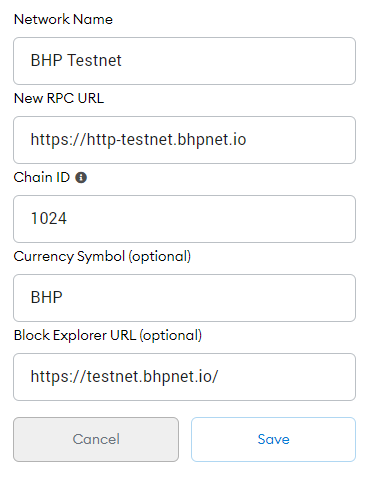
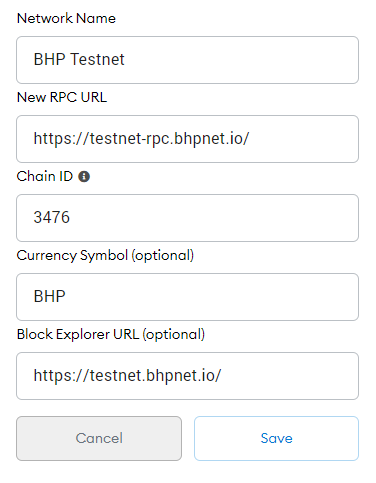
modify chain-id

diff --git a/.umirc.ts b/.umirc.ts
@@ -23,12 +23,20 @@ export default defineConfig({
         title: 'GitHub',
         path: 'https://github.com/bhpnet/go-bhp',
       },
+      {
+        title: 'Website',
+        path: 'https://bhpnet.io',
+      },
     ],
     'zh-CN': [
       null, // null 值代表保留约定式生成的导航，只做增量配置
       {
         title: 'GitHub',
         path: 'https://github.com/bhpnet/go-bhp',
+      },
+      {
+        title: '官网',
+        path: 'https://bhpnet.io',
       },
     ],
   },

diff --git a/docs/developer/cli/dumpgenesis.md b/docs/developer/cli/dumpgenesis.md
@@ -18,5 +18,5 @@ OPTIONS
 
 ```shell
 > gbhp dumpgenesis --datadir node
[2 lines of base64/hex data omitted]
 ```

diff --git a/docs/developer/cli/dumpgenesis.zh-CN.md b/docs/developer/cli/dumpgenesis.zh-CN.md
@@ -18,5 +18,5 @@ OPTIONS
 
 ```shell
 > gbhp dumpgenesis --datadir node
[2 lines of base64/hex data omitted]
 ```

diff --git a/docs/developer/truffle.md b/docs/developer/truffle.md
@@ -86,7 +86,7 @@ module.exports = {
     testnet: {
       provider: () =>
         new HDWalletProvider(mnemonic, `https://http-mainnet.bhpnet.io`),
-      network_id: 31415,
+      network_id: 6794,
       confirmations: 10,
       timeoutBlocks: 200,
       skipDryRun: true,
@@ -94,7 +94,7 @@ module.exports = {
     bhp: {
       provider: () =>
         new HDWalletProvider(mnemonic, `https://http-testnet.bhpnet.io`),
-      network_id: 1024,
+      network_id: 3476,
       confirmations: 10,
       timeoutBlocks: 200,
       skipDryRun: true,
@@ -148,7 +148,7 @@ Compiling your contracts...
 Starting migrations...
 ======================
 > Network name:    'testnet'
-> Network id:      999
+> Network id:      3476
 > Block gas limit: 8000000 (0x7a1200)
 
 

diff --git a/docs/developer/truffle.zh-CN.md b/docs/developer/truffle.zh-CN.md
@@ -84,7 +84,7 @@ module.exports = {
     testnet: {
       provider: () =>
         new HDWalletProvider(mnemonic, `https://http-mainnet.bhpnet.io`),
-      network_id: 31415,
+      network_id: 6794,
       confirmations: 10,
       timeoutBlocks: 200,
       skipDryRun: true,
@@ -92,7 +92,7 @@ module.exports = {
     bhp: {
       provider: () =>
         new HDWalletProvider(mnemonic, `https://http-testnet.bhpnet.io`),
-      network_id: 1024,
+      network_id: 3476,
       confirmations: 10,
       timeoutBlocks: 200,
       skipDryRun: true,
@@ -146,7 +146,7 @@ Compiling your contracts...
 Starting migrations...
 ======================
 > Network name:    'testnet'
-> Network id:      999
+> Network id:      3476
 > Block gas limit: 8000000 (0x7a1200)
 
 

diff --git a/docs/guide/genesis.zh-CN.md b/docs/guide/genesis.zh-CN.md
@@ -8,7 +8,7 @@
 
 ### 名词解释
 
-- `chainId` :链的唯一性标识，BHP 测试网为 1024
+- `chainId` :链的唯一性标识，BHP 测试网为 3476
 
 - `alloc`: 预分配的账号
 
@@ -27,7 +27,7 @@
 ```json
 {
   "config": {
-    "chainId": 31415,
+    "chainId": 6794,
     "homesteadBlock": 0,
     "daoForkSupport": true,
     "eip150Block": 0,
@@ -79,7 +79,7 @@
 ```json
 {
   "config": {
-    "chainId": 1024,
+    "chainId": 3476,
     "homesteadBlock": 0,
     "daoForkSupport": true,
     "eip150Block": 0,

diff --git a/docs/guide/genesis.md b/docs/guide/genesis.md
@@ -27,7 +27,7 @@ System contract repo: [bhp-system-contracts](https://github.com/bhpnet/bhp-syste
 ```json
 {
   "config": {
-    "chainId": 31415,
+    "chainId": 6794,
     "homesteadBlock": 0,
     "daoForkSupport": true,
     "eip150Block": 0,
@@ -79,7 +79,7 @@ System contract repo: [bhp-system-contracts](https://github.com/bhpnet/bhp-syste
 ```json
 {
   "config": {
-    "chainId": 1024,
+    "chainId": 3476,
     "homesteadBlock": 0,
     "daoForkSupport": true,
     "eip150Block": 0,

diff --git a/docs/guide/metamask.zh-CN.md b/docs/guide/metamask.zh-CN.md
@@ -11,7 +11,7 @@ title: MetaMask 使用指南
 主网
 
 ```shell
-chainid: 31415
+chainid: 6794
 rpc: https://http-mainnet.bhpnet.io
 scan: https://scan.bhpnet.io
 ```
@@ -21,7 +21,7 @@ scan: https://scan.bhpnet.io
 ![img](/images/remix-5.png)
 
 ```shell
-chainid: 1024
+chainid: 3476
 rpc: https://http-testnet.bhpnet.io
 scan: https://testnet.bhpnet.io
 ```

diff --git a/docs/guide/metamask.md b/docs/guide/metamask.md
@@ -11,7 +11,7 @@ Adding a custom network.
 mainnet
 
 ```shell
-chainid: 31415
+chainid: 6794
 rpc: https://http-mainnet.bhpnet.io
 scan: https://scan.bhpnet.io
 ```
@@ -21,7 +21,7 @@ testnet
 ![img](/images/remix-5.png)
 
 ```shell
-chainid: 1024
+chainid: 3476
 rpc: https://http-testnet.bhpnet.io
 scan: https://testnet.bhpnet.io
 ```

diff --git a/docs/developer/cli/dumpconfig.md b/docs/developer/cli/dumpconfig.md
@@ -20,7 +20,7 @@ When the file name is not added, directly output to the console.
 > gbhp --datadir node dumpconfig config.toml
 > cat config.toml
 [Eth]
-NetworkId = 999
+NetworkId = 3476
 SyncMode = "fast"
 DiscoveryURLs = []
 NoPruning = false

diff --git a/docs/developer/local.zh-CN.md b/docs/developer/local.zh-CN.md
@@ -36,7 +36,7 @@ gbhp --datadir node1/ account new --password node1/password.txt
 ```json
 {
   "config": {
-    "chainId": 999,
+    "chainId": 3476,
     "homesteadBlock": 0,
     "daoForkSupport": true,
     "eip150Block": 0,

diff --git a/docs/developer/cli/dumpconfig.zh-CN.md b/docs/developer/cli/dumpconfig.zh-CN.md
@@ -20,7 +20,7 @@ dumpconfig [command options] [arguments...]
 > gbhp --datadir node dumpconfig config.toml
 > cat config.toml
 [Eth]
-NetworkId = 999
+NetworkId = 3476
 SyncMode = "fast"
 DiscoveryURLs = []
 NoPruning = false
